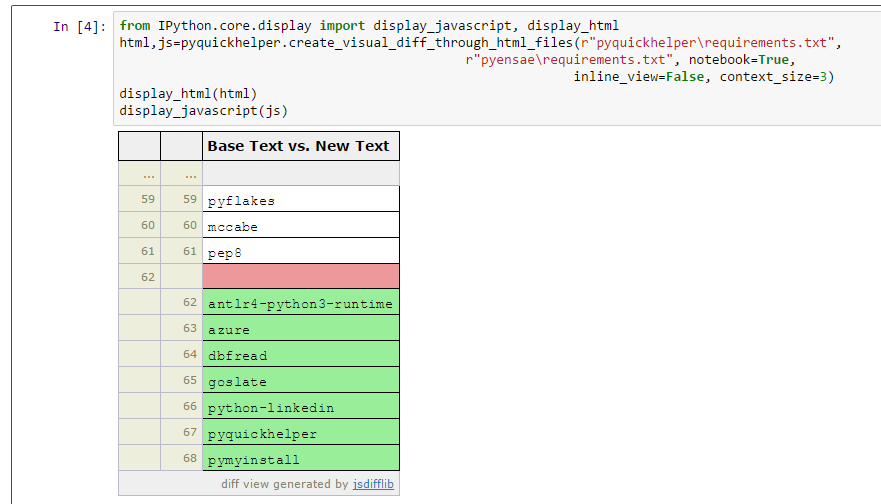
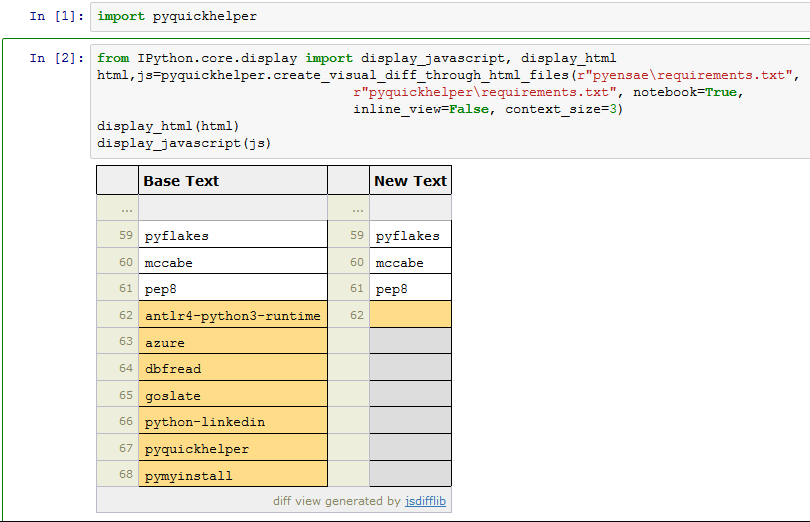
change the font for diffview, fix the inline parameter

Changed region(s): [[0.0, 0.0, 1.0, 1.0]]

diff --git a/src/pyquickhelper/filehelper/diffview.css b/src/pyquickhelper/filehelper/diffview.css
@@ -33,12 +33,13 @@ table.diff {
 	white-space:pre-wrap
 }
 table.diff tbody { 
-	font-family:Courier, monospace
+	font-family:Consolas;
+	font-size:11px;
 }
 table.diff tbody th {
 	font-family:verdana,arial,'Bitstream Vera Sans',helvetica,sans-serif;
 	background:#EED;
-	font-size:11px;
+	font-size:9px;
 	font-weight:normal;
 	border:1px solid #BBC;
 	color:#886;

diff --git a/src/pyquickhelper/filehelper/visual_sync.py b/src/pyquickhelper/filehelper/visual_sync.py
@@ -222,7 +222,7 @@ def create_visual_diff_through_html(string1, string2, notebook=False, context_si
                     .replace("__ID__", did)
                     .replace("__CSS__", css))
 
-        vars = ["var tview='{0}';".format(1 if inline_view else 0),
+        vars = ["var tview={0};".format(1 if inline_view else 0),
                 "var csize='{0}';".format(
             "" if context_size is None else context_size),
             "var bt = '{0}';".format(

diff --git a/src/pyquickhelper/filehelper/anyfhelper.py b/src/pyquickhelper/filehelper/anyfhelper.py
@@ -12,7 +12,7 @@ from .synchelper import explore_folder_iterfile
 from .internet_helper import read_url
 
 if sys.version_info[0] == 2:
-    from codecs import open    
+    from codecs import open
 
 
 def change_file_status(folder, status=stat.S_IWRITE, strict=False):
